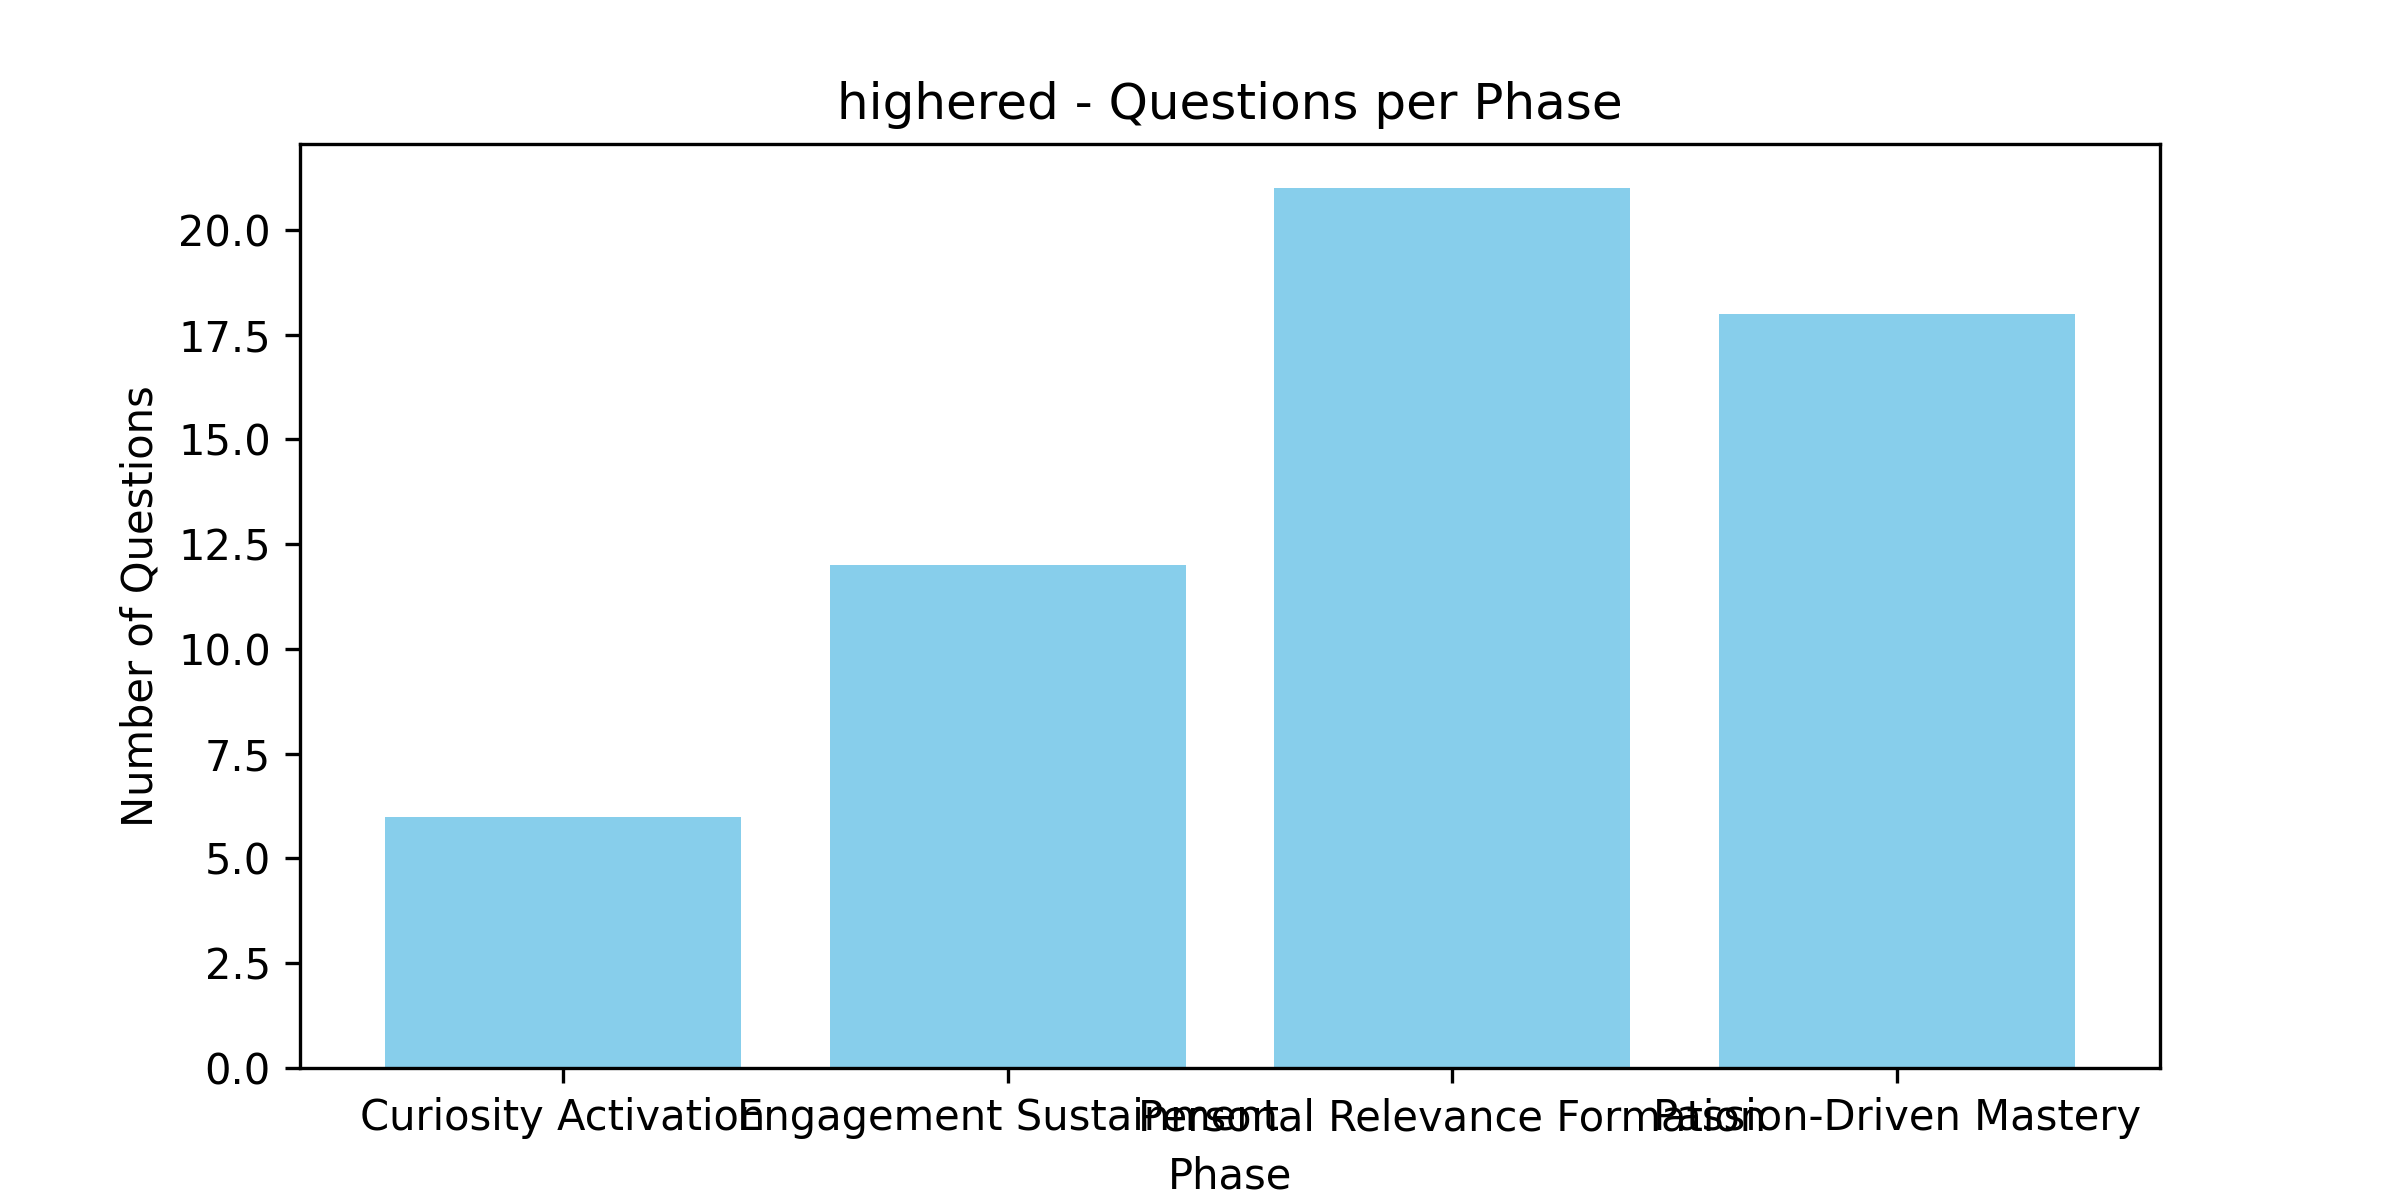
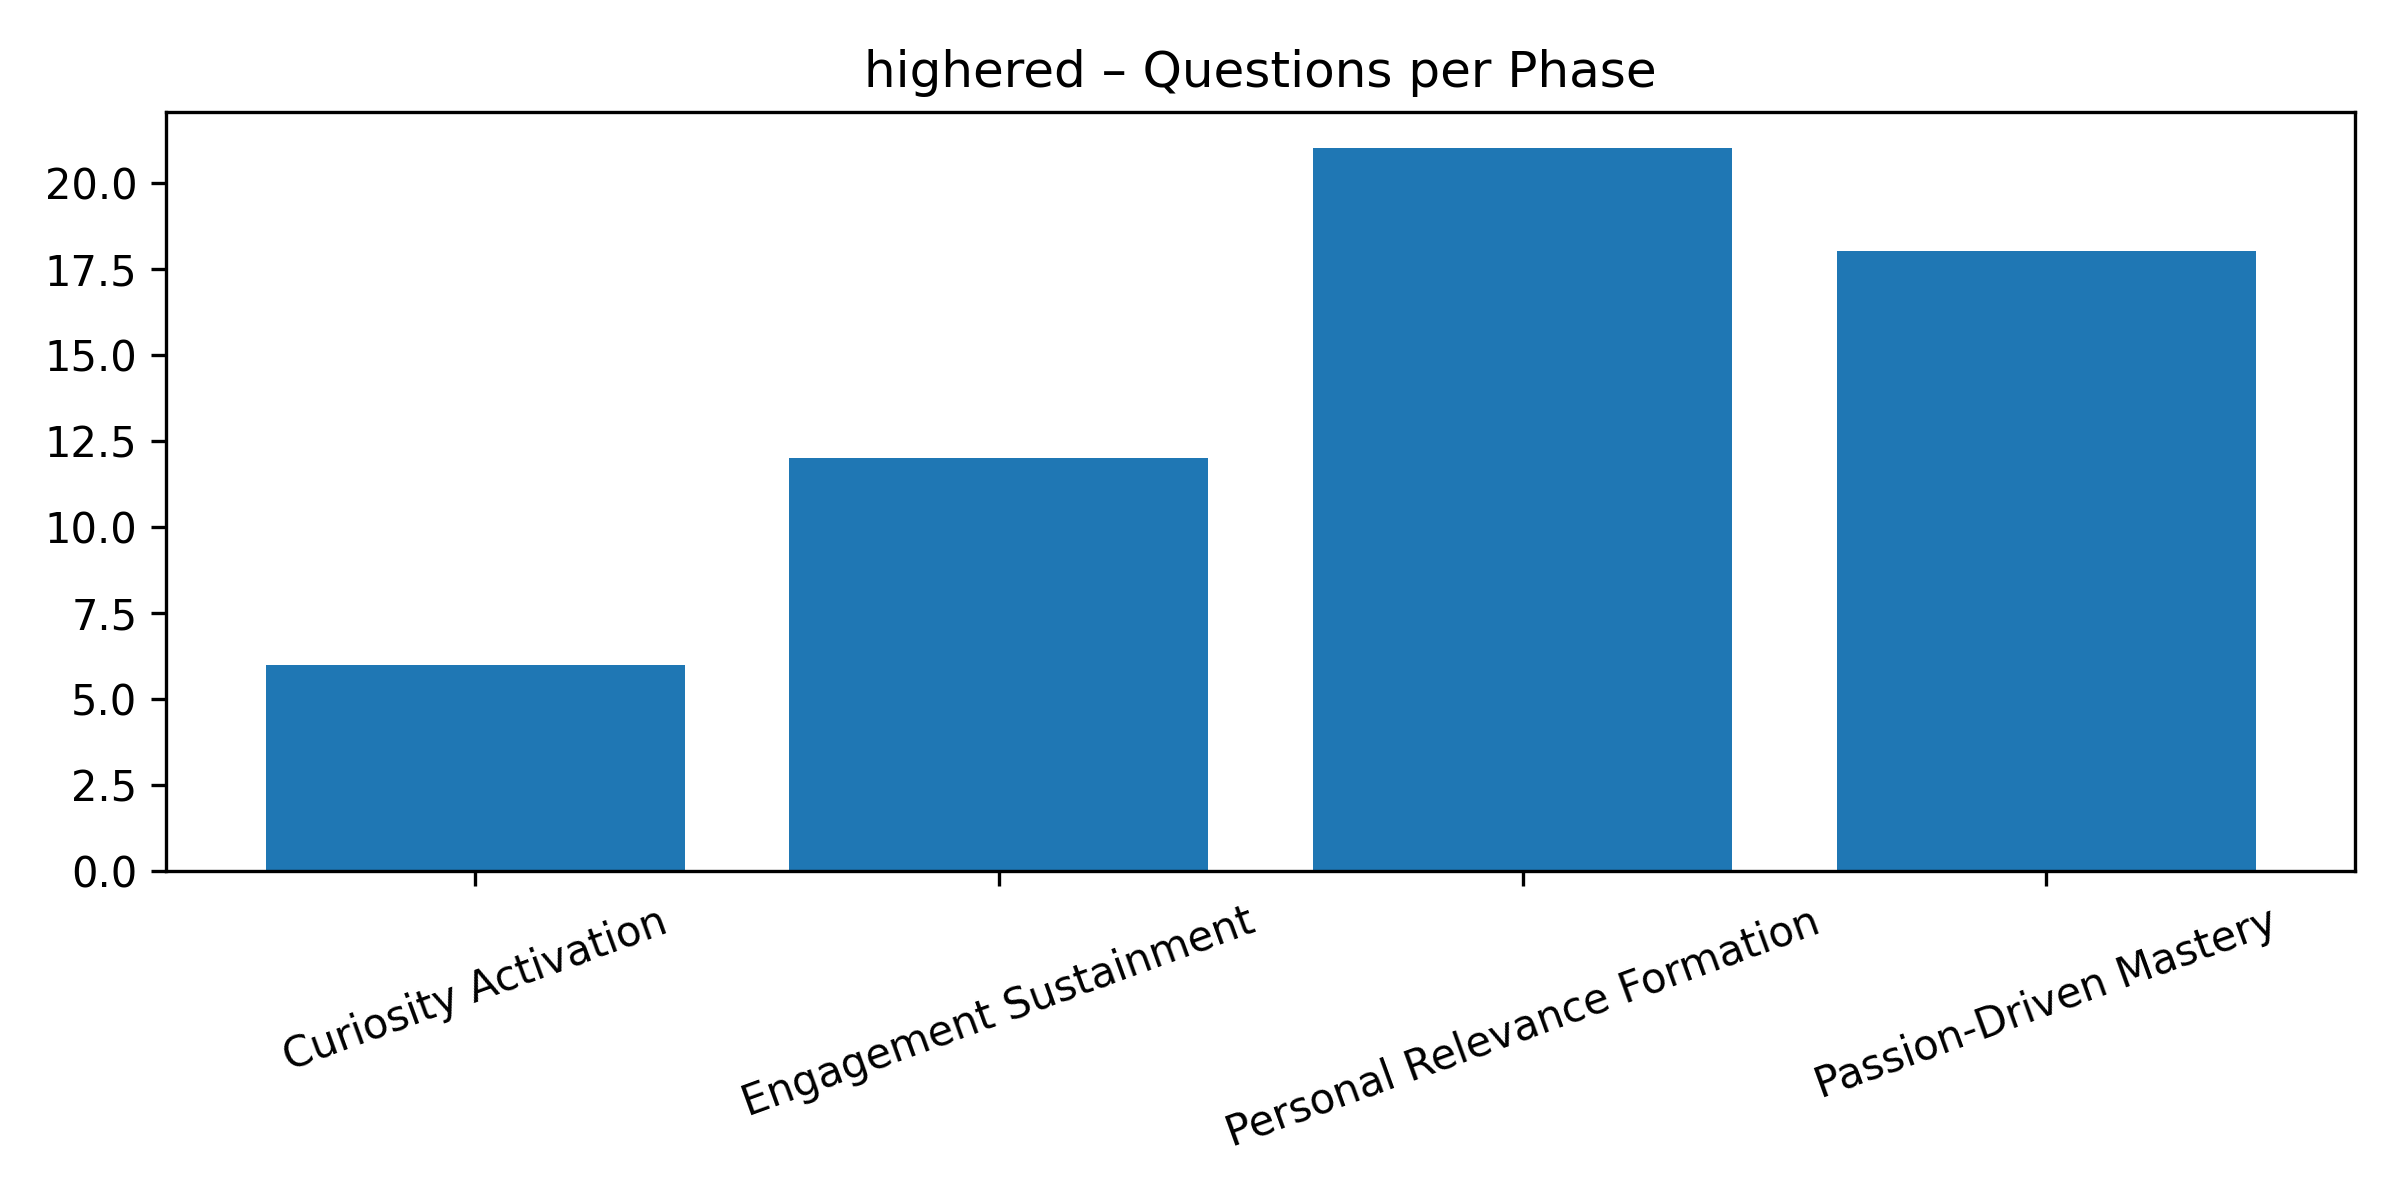
question analisys update

diff --git a/questions/question_analisys.py b/questions/question_analisys.py
@@ -5,127 +5,123 @@ import matplotlib.pyplot as plt
 import seaborn as sns
 import pandas as pd
 
-folder_path = "questions"
-summary_base = os.path.join(folder_path, "summary")
-os.makedirs(summary_base, exist_ok=True)
+BASE_FOLDER = "questions"
+SUMMARY_BASE = os.path.join(BASE_FOLDER, "summary")
+os.makedirs(SUMMARY_BASE, exist_ok=True)
 
-age_groups = ["primary", "secondary", "highered", "lifelong"]
-age_group_data = {}
+AGE_GROUPS = ["primary", "secondary", "highered", "lifelong"]
 
-# Load JSON data
-for age_group in age_groups:
-    json_file = os.path.join(folder_path, age_group, f"{age_group}.json")
-    if not os.path.exists(json_file):
-        print(f"JSON file not found: {json_file}")
-        continue
-    with open(json_file, "r", encoding="utf-8") as f:
-        age_group_data[age_group] = json.load(f)
+def truncate(text, max_len=12):
+    return text if len(text) <= max_len else text[:max_len - 1] + "…"
 
 summary_rows = []
 
-# Analyze each age group
-for age_group, questions in age_group_data.items():
-    print(f"\n=== Analysis for {age_group} ===")
-    
+for age_group in AGE_GROUPS:
+    json_path = os.path.join(BASE_FOLDER, age_group, f"{age_group}.json")
+    if not os.path.exists(json_path):
+        print(f"❌ Missing: {json_path}")
+        continue
+
+    with open(json_path, "r", encoding="utf-8") as f:
+        data = json.load(f)
+
+    questions = data  
+
+    print(f"\n=== Analysis for {age_group.upper()} ===")
+
     phase_counter = Counter()
     domain_counter = Counter()
-    phase_domain_counts = defaultdict(lambda: Counter())
-    
+    phase_domain = defaultdict(Counter)
+
     for q in questions:
         phase = q["interest_phase"]
         phase_counter[phase] += 1
+
         for opt in q["options"]:
-            non_neutral_domains = [d for d in opt["domains"] if d != "Neutral"]
-            for domain in non_neutral_domains:
-                domain_counter[domain] += 1
-                phase_domain_counts[phase][domain] += 1
-    
-    # Print Phase distribution
-    print("Phase distribution:")
-    for phase, count in phase_counter.items():
-        print(f"  {phase}: {count}")
-    
-    # Print Domain distribution
-    print("Domain distribution:")
-    for domain, count in domain_counter.items():
-        print(f"  {domain}: {count}")
-    
-    # Check domain balance
+            for domain, score in opt["domains"].items():
+                if domain == "Neutral":
+                    continue
+                domain_counter[domain] += score
+                phase_domain[phase][domain] += score
+
+    # ---- Console Output ----
+    print("\nPhase distribution:")
+    for p, c in phase_counter.items():
+        print(f"  {p}: {c}")
+
+    print("\nDomain distribution:")
+    for d, c in domain_counter.items():
+        print(f"  {d}: {c}")
+
+    print("\nDomains per phase:")
+    for p, dmap in phase_domain.items():
+        print(f"  {p}:")
+        for d, c in dmap.items():
+            print(f"    - {d}: {c}")
+
+    # ---- Warnings ----
     warnings = []
     if domain_counter:
-        total_domains = len(domain_counter)
-        if total_domains < 4:
-            warnings.append("Some domains are missing.")
-            print("Some domains are missing.")
-        max_count = max(domain_counter.values())
-        min_count = min(domain_counter.values())
-        if max_count > 2 * min_count:
-            warnings.append("Domain counts are highly imbalanced.")
-            print("Domain counts are highly imbalanced.")
-    
-    # Ensure summary folder exists
-    summary_folder = os.path.join(summary_base, age_group)
+        vals = list(domain_counter.values())
+        if max(vals) > 2 * min(vals):
+            warnings.append("Domain imbalance detected")
+
+    # ---- Prepare folders ----
+    summary_folder = os.path.join(SUMMARY_BASE, age_group)
     os.makedirs(summary_folder, exist_ok=True)
-    
-    # Plot Phase distribution
+
+    # ---- Phase chart ----
     plt.figure(figsize=(8, 4))
-    plt.bar(phase_counter.keys(), phase_counter.values(), color='skyblue')
-    plt.title(f"{age_group} - Questions per Phase")
-    plt.xlabel("Phase")
-    plt.ylabel("Number of Questions")
-    plt.savefig(os.path.join(summary_folder, "Questions_per_Phase.png"), dpi=300)
+    plt.bar(phase_counter.keys(), phase_counter.values())
+    plt.title(f"{age_group} – Questions per Phase")
+    plt.xticks(rotation=20)
+    plt.tight_layout()
+    plt.savefig(os.path.join(summary_folder, "questions_per_phase.png"), dpi=300)
     plt.close()
-    
-    # Plot Domain distribution
+
+    # ---- Domain chart ----
     plt.figure(figsize=(8, 4))
-    plt.bar(domain_counter.keys(), domain_counter.values(), color='lightgreen')
-    plt.title(f"{age_group} - Option Distribution per Domain")
-    plt.xlabel("Domain")
-    plt.ylabel("Option Counts")
-    plt.savefig(os.path.join(summary_folder, "Option_Distribution_per_Domain.png"), dpi=300)
+    plt.bar(domain_counter.keys(), domain_counter.values())
+    plt.title(f"{age_group} – Domain Distribution")
+    plt.xticks(rotation=30)
+    plt.tight_layout()
+    plt.savefig(os.path.join(summary_folder, "domain_distribution.png"), dpi=300)
     plt.close()
-    
-    # Heatmap Phase vs Domain
-    phases = list(phase_domain_counts.keys())
-    domains = sorted({d for ph in phases for d in phase_domain_counts[ph].keys()})
-    heatmap_data = [[phase_domain_counts[ph].get(d, 0) for d in domains] for ph in phases]
-    
+
+    # ---- Heatmap ----
+    phases = list(phase_domain.keys())
+    domains = sorted(domain_counter.keys())
+
+    heatmap = [[phase_domain[p].get(d, 0) for d in domains] for p in phases]
+
     plt.figure(figsize=(10, 6))
-    sns.heatmap(heatmap_data, annot=True, fmt="d", xticklabels=domains, yticklabels=phases, cmap="YlGnBu")
-    plt.title(f"{age_group} - Phase vs Domain Option Count")
-    plt.xlabel("Domain")
-    plt.ylabel("Phase")
-    plt.savefig(os.path.join(summary_folder, "Phase_vs_Domain_Option_Count.png"), dpi=300)
-    plt.close()
-        
-    # Save Domain distribution as separate chart for easier visualization
-    plt.figure(figsize=(8, 4))
-    sns.barplot(
-        x=list(domain_counter.keys()),
-        y=list(domain_counter.values()),
-        hue=list(domain_counter.keys()),
-        palette="pastel",
-        legend=False
+    sns.heatmap(
+        heatmap,
+        annot=True,
+        fmt="d",
+        xticklabels=[truncate(d) for d in domains],
+        yticklabels=phases,
+        cmap="YlGnBu"
     )
-    plt.title(f"{age_group} - Overall Domain Distribution")
-    plt.xlabel("Domain")
-    plt.ylabel("Option Counts")
-    plt.savefig(os.path.join(summary_folder, "Overall_Domain_Distribution.png"), dpi=300)
+    plt.title(f"{age_group} – Phase × Domain")
+    plt.tight_layout()
+    plt.savefig(os.path.join(summary_folder, "phase_vs_domain_heatmap.png"), dpi=300)
     plt.close()
-    
-    # Prepare summary dataframe
-    for phase in phases:
-        for domain in domains:
+
+    # ---- CSV rows ----
+    for p in phases:
+        for d in domains:
             summary_rows.append({
                 "Age Group": age_group,
-                "Phase": phase,
-                "Domain": domain,
-                "Option Count": phase_domain_counts[phase].get(domain, 0),
+                "Phase": p,
+                "Domain": d,
+                "Score": phase_domain[p].get(d, 0),
                 "Warnings": "; ".join(warnings)
             })
 
-# Save overall summary
-summary_df = pd.DataFrame(summary_rows)
-summary_csv = os.path.join(summary_base, "question_analysis_summary.csv")
-summary_df.to_csv(summary_csv, index=False)
-print(f"\nSummary CSV saved: {summary_csv}")
+# ---- Save CSV ----
+df = pd.DataFrame(summary_rows)
+csv_path = os.path.join(SUMMARY_BASE, "question_analysis_summary.csv")
+df.to_csv(csv_path, index=False)
+
+print(f"\nSummary saved to {csv_path}")
